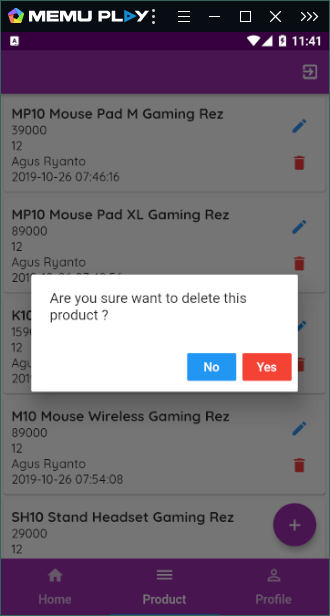
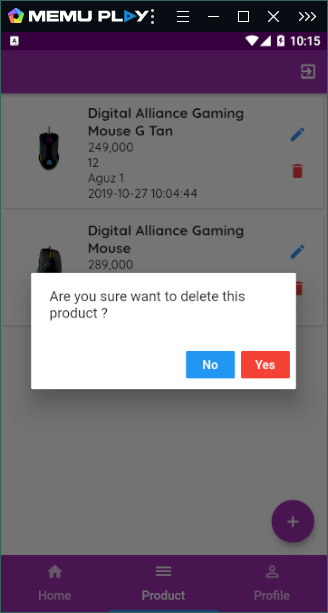
image upload

diff --git a/lib/views/addProduct.dart b/lib/views/addProduct.dart
@@ -1,4 +1,5 @@
-import 'dart:convert';
+import 'dart:io';
+import 'package:async/async.dart';
 
 import 'package:flutter/material.dart';
 import 'package:flutter/services.dart';
@@ -7,6 +8,8 @@ import 'package:http/http.dart' as http;
 import 'package:rez_apps/api/server.dart';
 import 'package:rez_apps/custom/currency.dart';
 import 'package:shared_preferences/shared_preferences.dart';
+import 'package:image_picker/image_picker.dart';
+import 'package:path/path.dart' as path;
 
 class AddProduct extends StatefulWidget {
   final VoidCallback reload;
@@ -19,11 +22,28 @@ class AddProduct extends StatefulWidget {
 class _AddProductState extends State<AddProduct> {
   String namaProduct, qty, harga, idUsers;
   final _key = new GlobalKey<FormState>();
+  File _imageFile;
+
+  Future _chooseGalery() async {
+    var image = await ImagePicker.pickImage(
+        source: ImageSource.gallery, maxHeight: 1920.0, maxWidth: 1080.0);
+    setState(() {
+      _imageFile = image;
+    });
+  }
+
+  // Future _chooseCamera() async {
+  //   var image = await ImagePicker.pickImage(
+  //       source: ImageSource.camera, maxHeight: 1920.0, maxWidth: 1080.0);
+  //   setState(() {
+  //     _imageFile = image;
+  //   });
+  // }
 
   getPref() async {
     SharedPreferences preferences = await SharedPreferences.getInstance();
     setState(() {
-     idUsers = preferences.getString("id"); 
+      idUsers = preferences.getString("id");
     });
   }
 
@@ -36,29 +56,51 @@ class _AddProductState extends State<AddProduct> {
   }
 
   submit() async {
-    final response = await http.post(BaseUrl.addproduct, body: {
-      "namaProduct" : namaProduct,
-      "qty" : qty,
-      "harga" : harga.replaceAll(",", ""),
-      "idUsers" : idUsers
-    });
-    final data = jsonDecode(response.body);
-    int value = data['value'];
-    String message = data['message'];
+    try {
+      var field = "image";
+      var stream =
+          http.ByteStream(DelegatingStream.typed(_imageFile.openRead()));
+      var length = await _imageFile.length();
 
-    if (value == 1) {
-      Fluttertoast.showToast(
-        msg: message,
-        toastLength: Toast.LENGTH_SHORT
-      );
-      widget.reload();
-      Navigator.pop(context);
-    } else {
-      Fluttertoast.showToast(
-        msg: message,
-        toastLength: Toast.LENGTH_SHORT
-      );
+      var uri = Uri.parse(BaseUrl.addproduct);
+      final request = http.MultipartRequest("POST", uri);
+      request.fields['namaProduct'] = namaProduct;
+      request.fields['qty'] = qty;
+      request.fields['harga'] = harga.replaceAll(",", '');
+      request.fields['idUsers'] = idUsers;
+
+      request.files.add(new http.MultipartFile(field, stream, length,
+          filename: path.basename(_imageFile.path)));
+
+      var response = await request.send();
+      if (response.statusCode > 2) {
+        Fluttertoast.showToast(msg: "Success", toastLength: Toast.LENGTH_SHORT);
+        widget.reload();
+        Navigator.pop(context);
+      } else {
+        Fluttertoast.showToast(msg: "Failed", toastLength: Toast.LENGTH_SHORT);
+      }
+    } catch (e) {
+      debugPrint("Error $e");
     }
+
+    // final response = await http.post(BaseUrl.addproduct, body: {
+    //   "namaProduct": namaProduct,
+    //   "qty": qty,
+    //   "harga": harga.replaceAll(",", ""),
+    //   "idUsers": idUsers
+    // });
+    // final data = jsonDecode(response.body);
+    // int value = data['value'];
+    // String message = data['message'];
+
+    // if (value == 1) {
+    //   Fluttertoast.showToast(msg: message, toastLength: Toast.LENGTH_SHORT);
+    //   widget.reload();
+    //   Navigator.pop(context);
+    // } else {
+    //   Fluttertoast.showToast(msg: message, toastLength: Toast.LENGTH_SHORT);
+    // }
   }
 
   @override
@@ -69,6 +111,13 @@ class _AddProductState extends State<AddProduct> {
 
   @override
   Widget build(BuildContext context) {
+    var placeholder = Container(
+        width: double.infinity,
+        height: 160.0,
+        child: Image.asset(
+          './images/placeholder.jpg',
+          fit: BoxFit.cover,
+        ));
     return Scaffold(
       appBar: AppBar(
         backgroundColor: Colors.purple,
@@ -79,6 +128,18 @@ class _AddProductState extends State<AddProduct> {
         child: ListView(
           padding: EdgeInsets.all(20.0),
           children: <Widget>[
+            Container(
+              width: double.infinity,
+              height: 160.0,
+              child: _imageFile == null
+                  ? placeholder
+                  : Image.file(_imageFile, fit: BoxFit.cover),
+            ),
+            MaterialButton(
+              color: Colors.white70,
+              onPressed: _chooseGalery,
+              child: Text("Choose Image"),
+            ),
             TextFormField(
               keyboardType: TextInputType.text,
               validator: (e) {
@@ -87,7 +148,7 @@ class _AddProductState extends State<AddProduct> {
                 }
                 return null;
               },
-              onSaved: (e)=> namaProduct = e,
+              onSaved: (e) => namaProduct = e,
               decoration: InputDecoration(
                   labelText: "Name Product", hintText: "Name Product"),
             ),
@@ -99,28 +160,29 @@ class _AddProductState extends State<AddProduct> {
                 }
                 return null;
               },
-              onSaved: (e)=> qty = e,
-              decoration: InputDecoration(
-                  labelText: "Quantity", hintText: "Quantity"),
+              onSaved: (e) => qty = e,
+              decoration:
+                  InputDecoration(labelText: "Quantity", hintText: "Quantity"),
             ),
             TextFormField(
               keyboardType: TextInputType.number,
               validator: (e) {
                 if (e.isEmpty) {
                   return "Please insert Price";
-                } 
+                }
                 return null;
               },
               inputFormatters: [
-                WhitelistingTextInputFormatter.digitsOnly, CurrencyFormat()
+                WhitelistingTextInputFormatter.digitsOnly,
+                CurrencyFormat()
               ],
-              onSaved: (e)=> harga = e,
-              decoration: InputDecoration(
-                  labelText: "Price", hintText: "Price"),
+              onSaved: (e) => harga = e,
+              decoration:
+                  InputDecoration(labelText: "Price", hintText: "Price"),
             ),
             Padding(padding: EdgeInsets.only(top: 20.0)),
             MaterialButton(
-              onPressed: (){
+              onPressed: () {
                 checkForm();
               },
               child: Text(

diff --git a/lib/views/product.dart b/lib/views/product.dart
@@ -16,7 +16,7 @@ class Product extends StatefulWidget {
 
 class _ProductState extends State<Product> {
   // membuat currency untuk menampilkan harga cth 15,000 ada komanya
-  final _money = NumberFormat("#,##0","en_US");
+  final _money = NumberFormat("#,##0", "en_US");
 
   // membuat list dengan identifier ke productmodel
   final list = new List<ProductModel>();
@@ -25,7 +25,8 @@ class _ProductState extends State<Product> {
   var loading = false;
 
   // membuat global key untuk refresh indicator
-  final GlobalKey<RefreshIndicatorState> _refresh = GlobalKey<RefreshIndicatorState>();
+  final GlobalKey<RefreshIndicatorState> _refresh =
+      GlobalKey<RefreshIndicatorState>();
 
   // membuat untuk mengambil datanya
   // untuk bisa refresh swipe method harus Future<void>
@@ -55,6 +56,7 @@ class _ProductState extends State<Product> {
           api['created_at'],
           api['idUsers'],
           api['name'],
+          api['image'],
         );
         // untuk menamilkan data panggil list di isi dengan value pModel
         list.add(pModel);
@@ -74,14 +76,14 @@ class _ProductState extends State<Product> {
         FlatButton(
           color: Colors.blue,
           child: Text("No", style: TextStyle(color: Colors.white)),
-          onPressed: (){
+          onPressed: () {
             Navigator.pop(context);
           },
         ),
         FlatButton(
           color: Colors.red,
           child: Text("Yes", style: TextStyle(color: Colors.white)),
-          onPressed: (){
+          onPressed: () {
             _delete(id);
           },
         )
@@ -89,30 +91,22 @@ class _ProductState extends State<Product> {
     );
 
     showDialog(context: context, child: alertDialog);
-
   }
 
   _delete(String id) async {
-    final response = await http.post(BaseUrl.deleteproduct, body: {
-      "idProduct" : id
-    });
+    final response =
+        await http.post(BaseUrl.deleteproduct, body: {"idProduct": id});
     final data = jsonDecode(response.body);
     int value = data['value'];
     String message = data['message'];
     if (value == 1) {
       setState(() {
-        Fluttertoast.showToast(
-          msg: message,
-          toastLength: Toast.LENGTH_SHORT
-        );
+        Fluttertoast.showToast(msg: message, toastLength: Toast.LENGTH_SHORT);
         Navigator.pop(context);
         _readProduct();
       });
     } else {
-      Fluttertoast.showToast(
-        msg: message,
-        toastLength: Toast.LENGTH_SHORT
-      );
+      Fluttertoast.showToast(msg: message, toastLength: Toast.LENGTH_SHORT);
     }
   }
 
@@ -149,6 +143,11 @@ class _ProductState extends State<Product> {
                       padding: EdgeInsets.all(10.0),
                       child: Row(
                         children: <Widget>[
+                          Image.network(
+                              'http://192.168.43.69/rez_apps/upload/' + x.image,
+                              width: 100.0,
+                              height: 100.0,
+                              fit: BoxFit.cover,),
                           Expanded(
                             child: Column(
                               crossAxisAlignment: CrossAxisAlignment.start,
@@ -175,8 +174,8 @@ class _ProductState extends State<Product> {
                                 color: Colors.blue,
                                 onPressed: () {
                                   Navigator.of(context).push(MaterialPageRoute(
-                                    builder: (context) => EditProduct(x, _readProduct)
-                                  ));
+                                      builder: (context) =>
+                                          EditProduct(x, _readProduct)));
                                 },
                                 icon: Icon(Icons.edit),
                               ),

diff --git a/lib/model/productModel.dart b/lib/model/productModel.dart
@@ -6,7 +6,8 @@ class ProductModel {
   final String created_at;
   final String idUsers;
   final String name;
+  final String image;
 
-  ProductModel(this.id, this.namaProduct, this.qty, this.harga, this.created_at, this.idUsers, this.name);
+  ProductModel(this.id, this.namaProduct, this.qty, this.harga, this.created_at, this.idUsers, this.name, this.image);
 
 }
